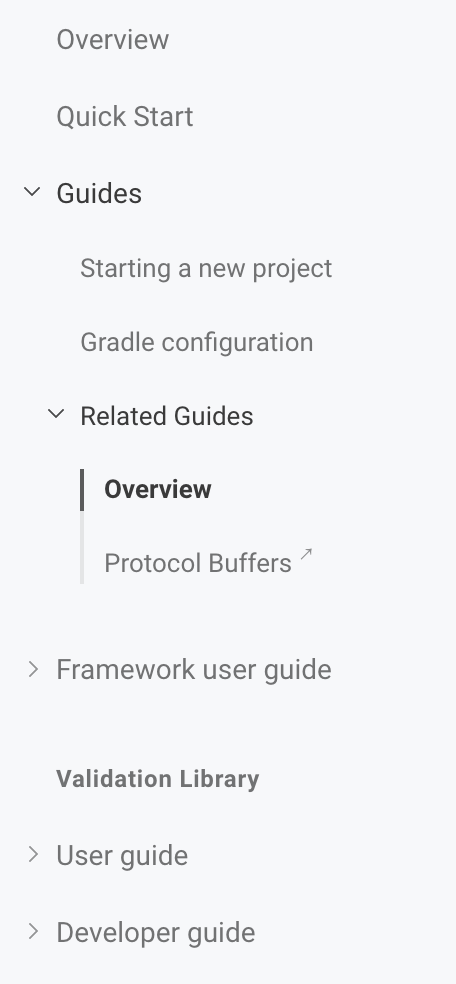
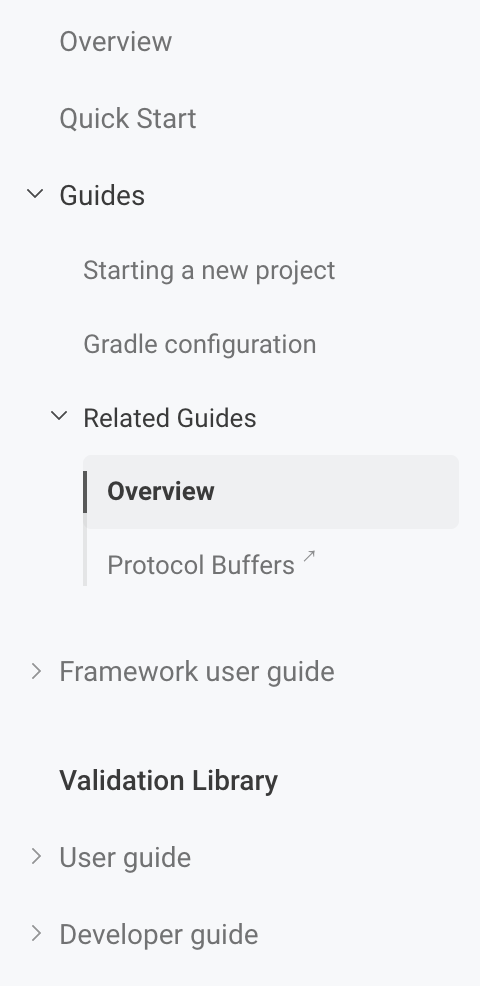
Adjust styles

diff --git a/assets/scss/theme/components/sidenav/_sidenav.scss b/assets/scss/theme/components/sidenav/_sidenav.scss
@@ -134,6 +134,7 @@ $sidenav-item-line-height: 1.6;
     }
 
     &.active {
+      background-color: var(--sidenav-link-hover-bg-color);
       color: var(--sidenav-link-active-color);
       font-weight: 600;
     }
@@ -199,11 +200,10 @@ $sidenav-item-line-height: 1.6;
   }
 
   .sidenav-section-title {
-    font-size: 12px;
-    line-height: calc(var(--sidenav-level-1-link-font-size) * #{$sidenav-item-line-height});
-    font-weight: 600;
-    letter-spacing: .4px;
-    color: rgba(0, 0, 0, .54);
+    font-size: var(--sidenav-level-1-link-font-size);
+    line-height: $sidenav-item-line-height;
+    font-weight: 500;
+    color: var(--text-color);
     padding: 8px 16px 8px var(--sidenav-level-1-item-left-padding);
     margin: 0;
 
